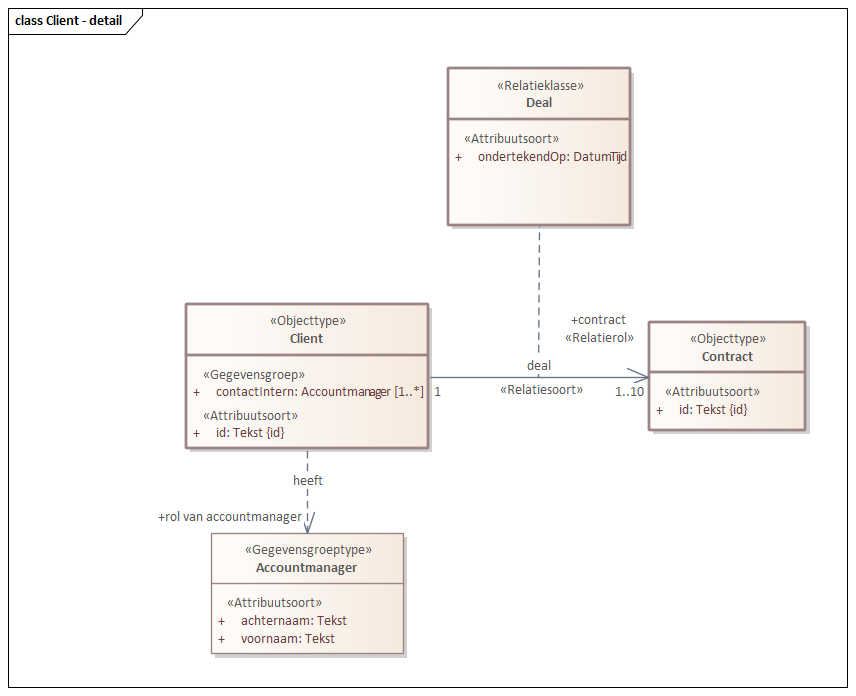
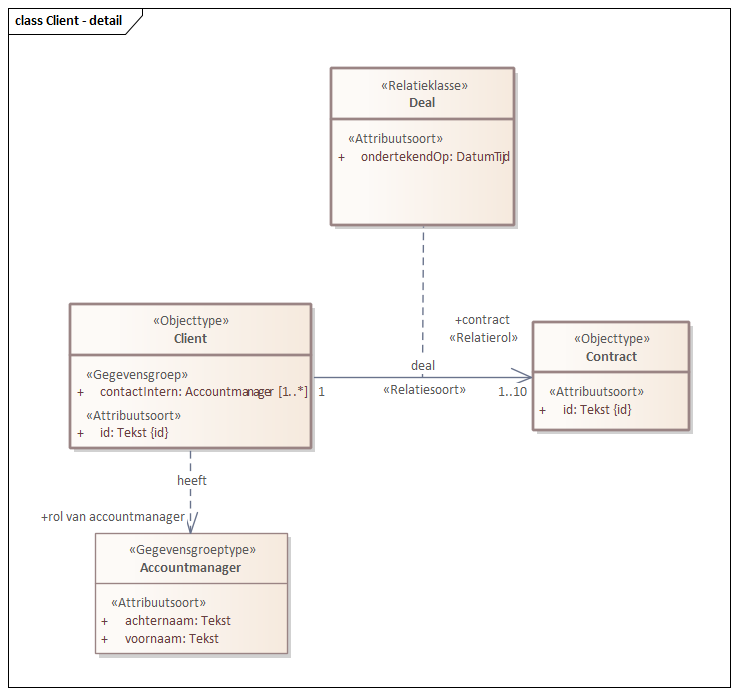
Conceptualmodel-SampleBaseSAMPLE-1.0.0-2-20130319-20230325-141725

diff --git a/data/SAMPLE-cat.msword.html b/data/SAMPLE-cat.msword.html
@@ -15,7 +15,7 @@
    <body>
       <p>Conceptual model/SampleBase (SAMPLE)/20130319</p>
       <p>Imvertor: Nightly-build.3</p>
-      <p>Model release: Conceptualmodel-SampleBaseSAMPLE-1.0.0-2-20130319-20230325-144530</p>
+      <p>Model release: Conceptualmodel-SampleBaseSAMPLE-1.0.0-2-20130319-20230325-141725</p>
       <hr>
       <section>
          <h1>Artikel 1 Definitie van registratieobject, entiteiten en attributen</h1>
@@ -1256,7 +1256,7 @@
                      </section>
                </section><a class="anchor" id="graph_EAID_DF955A82_3E49_4c9d_9C0C_74738600FE1B"></a><a class="anchor" id="global_class_Model_Client"></a><section id="global_class_Model_Client">
                   <h3>   Client</h3>
-                  <div class="imageinfo "><img src="Images/EAID_C73F9C08_FA15_4f5d_B14A_48C35207964C.png" usemap="#imagemap-EAID_C73F9C08_FA15_4f5d_B14A_48C35207964C" alt="Diagram "><map name="imagemap-EAID_C73F9C08_FA15_4f5d_B14A_48C35207964C"><area shape="rect" alt="Accountmanager" coords="211,533,404,654" href="#graph_EAID_29D6B892_B943_494c_94C7_A13DB031E998"><area shape="rect" alt="Contract" coords="649,322,806,431" href="#graph_EAID_77987690_1141_457d_A33B_E1C7AA1EA812"><area shape="rect" alt="Client" coords="186,304,429,449" href="#graph_EAID_DF955A82_3E49_4c9d_9C0C_74738600FE1B"></map><p><b></b></p>
+                  <div class="imageinfo "><img src="Images/EAID_C73F9C08_FA15_4f5d_B14A_48C35207964C.png" usemap="#imagemap-EAID_C73F9C08_FA15_4f5d_B14A_48C35207964C" alt="Diagram "><map name="imagemap-EAID_C73F9C08_FA15_4f5d_B14A_48C35207964C"><area shape="rect" alt="Accountmanager" coords="95,533,288,654" href="#graph_EAID_29D6B892_B943_494c_94C7_A13DB031E998"><area shape="rect" alt="Contract" coords="533,322,690,431" href="#graph_EAID_77987690_1141_457d_A33B_E1C7AA1EA812"><area shape="rect" alt="Client" coords="70,304,312,449" href="#graph_EAID_DF955A82_3E49_4c9d_9C0C_74738600FE1B"></map><p><b></b></p>
                   </div>
                   <table style="width: 100%;">
                      <colgroup style="width: 30%;"></colgroup>
@@ -1314,7 +1314,7 @@
                            </tr>
                         </tbody>
                      </table>
-                     </section><a class="anchor" id="detail_d23665e4772"></a><section id="detail_d23665e4772">
+                     </section><a class="anchor" id="detail_d17216e4772"></a><section id="detail_d17216e4772">
                      <h4>  contactIntern</h4>
                      <table style="width: 100%;">
                         <colgroup style="width: 30%;"></colgroup>

diff --git a/data/SAMPLE-cat.respec.html b/data/SAMPLE-cat.respec.html
@@ -1232,7 +1232,7 @@
             </section>
       </section><a class="anchor" id="graph_EAID_DF955A82_3E49_4c9d_9C0C_74738600FE1B"></a><a class="anchor" id="global_class_Model_Client"></a><section id="global_class_Model_Client">
          <h3>   Client</h3>
-         <div class="imageinfo "><img src="data/Images/EAID_C73F9C08_FA15_4f5d_B14A_48C35207964C.png" usemap="#imagemap-EAID_C73F9C08_FA15_4f5d_B14A_48C35207964C" alt="Diagram "><map name="imagemap-EAID_C73F9C08_FA15_4f5d_B14A_48C35207964C"><area shape="rect" alt="Accountmanager" coords="211,533,404,654" href="#graph_EAID_29D6B892_B943_494c_94C7_A13DB031E998"><area shape="rect" alt="Contract" coords="649,322,806,431" href="#graph_EAID_77987690_1141_457d_A33B_E1C7AA1EA812"><area shape="rect" alt="Client" coords="186,304,429,449" href="#graph_EAID_DF955A82_3E49_4c9d_9C0C_74738600FE1B"></map><p><b></b></p>
+         <div class="imageinfo "><img src="data/Images/EAID_C73F9C08_FA15_4f5d_B14A_48C35207964C.png" usemap="#imagemap-EAID_C73F9C08_FA15_4f5d_B14A_48C35207964C" alt="Diagram "><map name="imagemap-EAID_C73F9C08_FA15_4f5d_B14A_48C35207964C"><area shape="rect" alt="Accountmanager" coords="95,533,288,654" href="#graph_EAID_29D6B892_B943_494c_94C7_A13DB031E998"><area shape="rect" alt="Contract" coords="533,322,690,431" href="#graph_EAID_77987690_1141_457d_A33B_E1C7AA1EA812"><area shape="rect" alt="Client" coords="70,304,312,449" href="#graph_EAID_DF955A82_3E49_4c9d_9C0C_74738600FE1B"></map><p><b></b></p>
          </div>
          <table style="width: 100%;">
             <colgroup style="width: 30%;"></colgroup>
@@ -1290,7 +1290,7 @@
                   </tr>
                </tbody>
             </table>
-            </section><a class="anchor" id="detail_d23665e4772"></a><section id="detail_d23665e4772">
+            </section><a class="anchor" id="detail_d17216e4772"></a><section id="detail_d17216e4772">
             <h4>  contactIntern</h4>
             <table style="width: 100%;">
                <colgroup style="width: 30%;"></colgroup>
